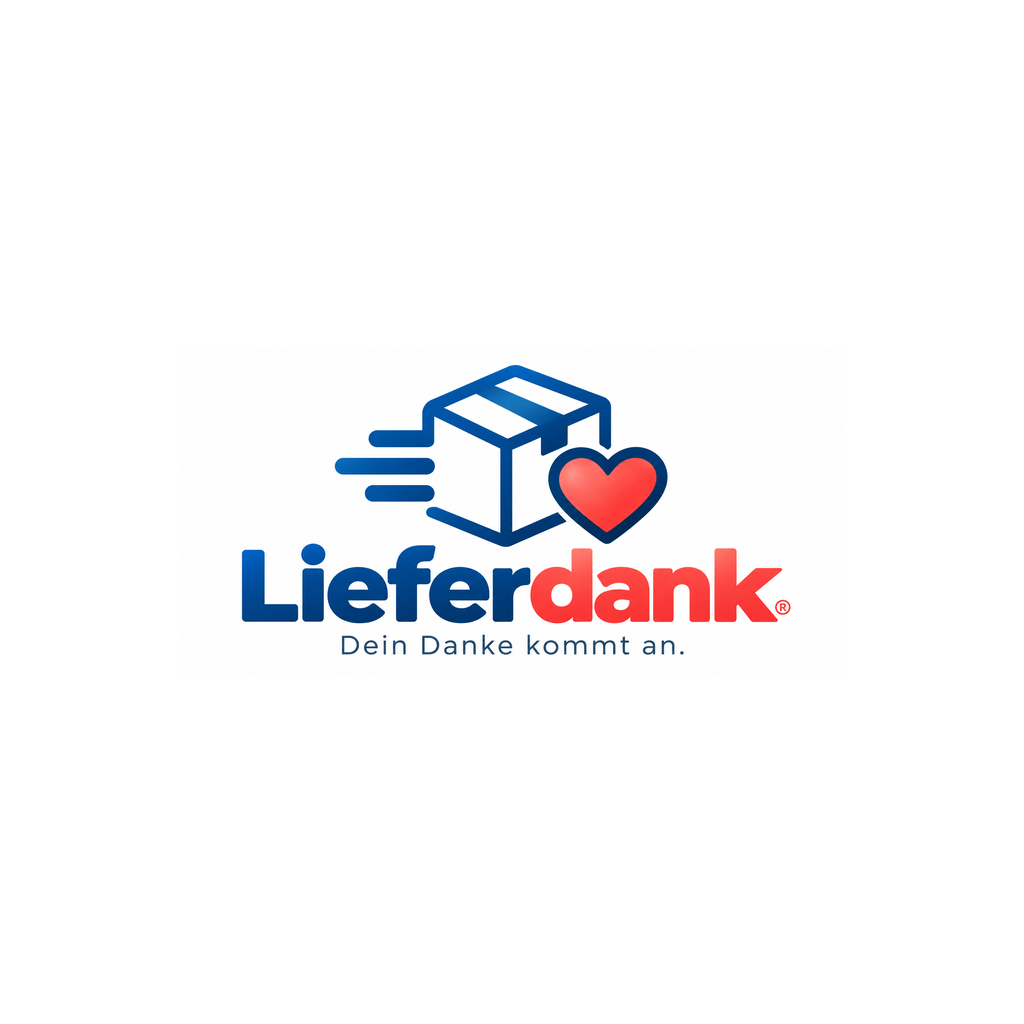
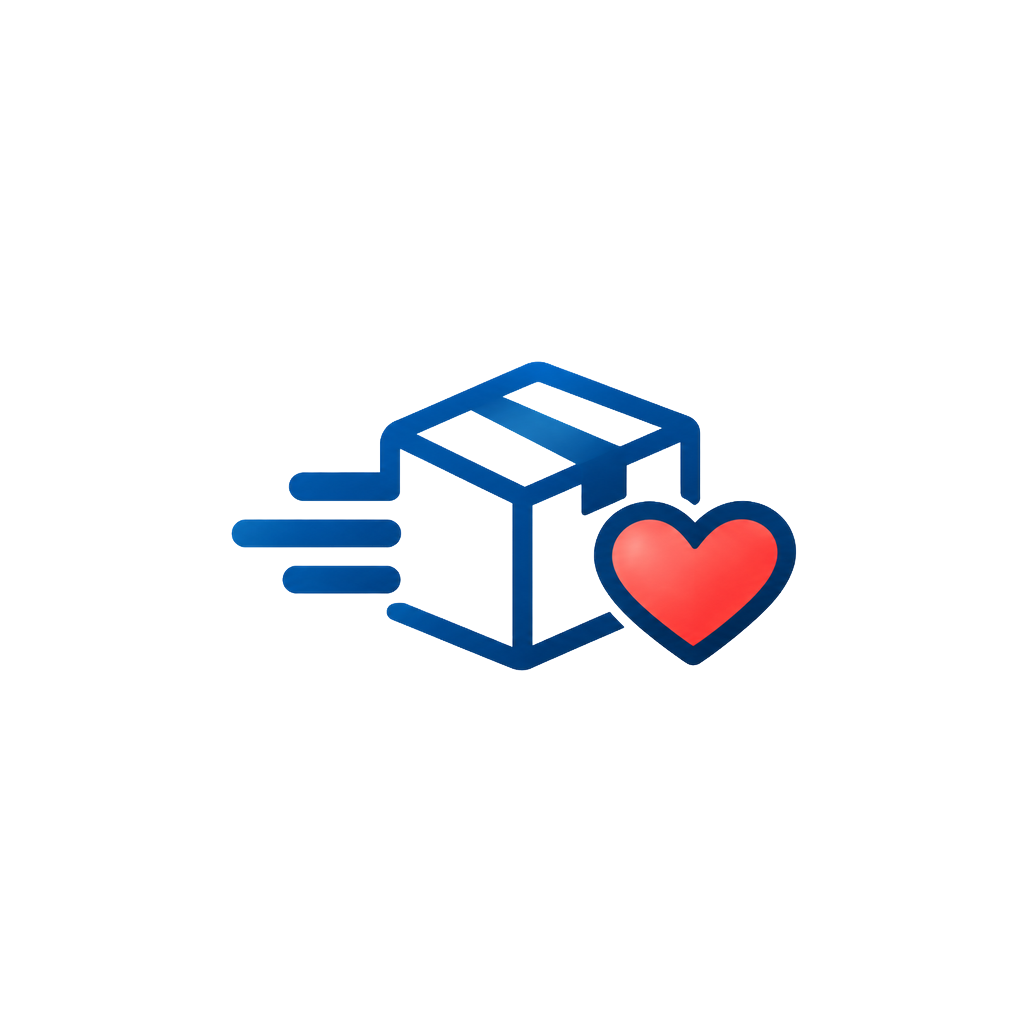
Notify confirmed payouts and stop tip e-mail setting from silencing push
- Queue a "payout sent" push only for payouts Stripe itself reports as
  paid, read live in the driver's connected account; pending or in-transit
  payouts never notify, and each payout notifies at most once per device.
- Rewards stay preview-only, so no reward push is sent; covered by a test.
- The per-device app switch is now the only push opt-out; the web setting
  "E-Mail bei jedem Trinkgeld" no longer blocks every app notification.
- App icon: flatten a faint off-white crop rectangle behind the approved
  mark; Android adaptive icon now uses the approved mark with the tape.

Changed region(s): [[0.2188, 0.3438, 0.7812, 0.6562]]

diff --git a/src/server/services/push.ts b/src/server/services/push.ts
@@ -8,7 +8,7 @@ import { deviceId } from "./mobile";
 import { parseInput } from "./auth";
 import { ServiceError } from "../errors";
 import { logEvent } from "../events";
-import { paymentProviderById } from "../payments";
+import { getPaymentProvider, paymentProviderById } from "../payments";
 import { RANKS } from "@/lib/ranks";
 import { getDriverRank } from "./ranks";
 
@@ -28,6 +28,7 @@ export async function registerPush(session: Session, input: unknown) {
   if (existing && existing.id !== id) await getDb().mobileSessions.update(existing.id, { pushToken: null, pushEnabled: false });
   await getDb().mobileSessions.update(id, { pushToken: value.enabled ? value.token : null, pushEnabled: value.enabled });
 }
+const euro = (cents: number) => `${(cents / 100).toLocaleString("de-DE", { minimumFractionDigits: 2, maximumFractionDigits: 2 })} €`;
 function deliveryId(sessionId: string, eventKey: string) {
   const hash = createHash("sha256").update(`${sessionId}:${eventKey}`).digest("hex");
   return `${hash.slice(0,8)}-${hash.slice(8,12)}-4${hash.slice(13,16)}-a${hash.slice(17,20)}-${hash.slice(20,32)}`;
@@ -45,7 +46,8 @@ export async function collectPushEvents() {
   for (const device of devices) {
     if (!device.pushToken || new Date(device.expiresAt).getTime() <= Date.now()) continue;
     const user = await db.users.get(device.userId); if (!user || user.blockedAt || user.tokenVersion !== device.tokenVersion) continue;
-    const driver = await db.driverProfiles.findOne({ userId: device.userId }); if (!driver?.notifyOnTip) continue;
+    // The per-device app switch (pushEnabled) is the push opt-out; notifyOnTip only controls tip e-mails.
+    const driver = await db.driverProfiles.findOne({ userId: device.userId }); if (!driver) continue;
     const tips = await db.tips.findMany({ where: { driverId: driver.id }, since: { field: "createdAt", value: device.createdAt } });
     for (const tip of tips) {
       if (tip.paymentStatus === "succeeded" && tip.refundedCents === 0 && !await db.pushDeliveries.get(deliveryId(device.id, `tip:${tip.id}`))) {
@@ -57,7 +59,7 @@ export async function collectPushEvents() {
               grossCents: tip.grossCents, applicationFeeCents: tip.platformGrossFeeCents,
             });
             if (credit !== null) await queuePush(device, { eventKey: `tip:${tip.id}`, title: "LieferDank",
-              body: `Du hast ${(credit / 100).toLocaleString("de-DE", { minimumFractionDigits: 2, maximumFractionDigits: 2 })} € Trinkgeld erhalten!`, screen: "earnings" });
+              body: `Du hast ${euro(credit)} Trinkgeld erhalten!`, screen: "earnings" });
           } catch {
             // Fail closed: a guessed net amount would be misleading. The next cron retries.
             await logEvent("warning", "push", "Bestätigte Stripe-Gutschrift für Push noch nicht verfügbar", { paymentId: payment.id });
@@ -80,6 +82,16 @@ export async function collectPushEvents() {
           await queuePush(device, { eventKey: `rank:${milestone.id}`, title: "Meilenstein erreicht", body: `Glückwunsch! Du hast ${rank.label} erreicht!`, screen: "thanks" });
       }
     }
+    // Rewards are preview-only (REWARD_PREVIEW): nothing can be activated or claimed, so there is deliberately no reward push.
+    // Payouts: Stripe's own "paid" status, read live in the driver's account scope; scheduled or in-transit payouts never notify.
+    if (driver.payoutAccountId) {
+      try {
+        for (const payout of await getPaymentProvider().paidPayouts(driver.payoutAccountId, device.createdAt))
+          await queuePush(device, { eventKey: `payout:${payout.id}`, title: "Auszahlung erfolgt", body: `${euro(payout.amountCents)} wurden an dein Bankkonto überwiesen.`, screen: "earnings" });
+      } catch {
+        await logEvent("warning", "push", "Auszahlungsstatus für Push nicht abrufbar", { driverId: driver.id });
+      }
+    }
   }
 }
 export async function deliverPush(fetcher: typeof fetch = fetch) {
@@ -92,7 +104,7 @@ export async function deliverPush(fetcher: typeof fetch = fetch) {
     const device = await db.mobileSessions.get(row.sessionId);
     const user = device ? await db.users.get(device.userId) : null;
     const owner = device ? await db.driverProfiles.findOne({ userId: device.userId }) : null;
-    if (!owner?.notifyOnTip || !device?.pushToken || !device.pushEnabled || device.revokedAt || !user || user.blockedAt || user.tokenVersion !== device.tokenVersion || device.expiresAt <= now.toISOString()) {
+    if (!owner || !device?.pushToken || !device.pushEnabled || device.revokedAt || !user || user.blockedAt || user.tokenVersion !== device.tokenVersion || device.expiresAt <= now.toISOString()) {
       await db.pushDeliveries.update(row.id, { status: "failed" }); continue;
     }
     if (row.eventKey.startsWith("tip:")) {

diff --git a/tests/mobile.test.ts b/tests/mobile.test.ts
@@ -14,6 +14,7 @@ import { POST as resetRoute } from "@/app/api/v1/auth/reset/route";
 import { GET as pushCron } from "@/app/api/cron/push/route";
 import { registerPush, queuePush, deliverPush, collectPushEvents, checkPushReceipts } from "@/server/services/push";
 import { startTip, confirmPayment } from "@/server/services/thanks";
+import { getPaymentProvider } from "@/server/payments";
 
 let ip = 0;
 const ctx = { params: Promise.resolve({}) };
@@ -84,6 +85,36 @@ describe("Confirmed push, deduplication and logout",()=>{
     await deliverPush(fetcher);
     expect(fetcher.mock.calls.map(([,init])=>JSON.parse(String(init?.body)).body)).not.toContain("Du hast 2,40 € Trinkgeld erhalten!");
     expect((await getDb().pushDeliveries.findMany({where:{eventKey:`tip:${tip.id}`}}))[0].status).toBe("failed");
+  });
+  it("notifies a payout only once, only after the provider reports it paid, with the paid amount",async()=>{
+    const d=await ready();await getDb().driverProfiles.update(d.driver.id,{payoutAccountId:"acct_driver"});
+    const paid=vi.spyOn(getPaymentProvider(),"paidPayouts").mockResolvedValue([]);
+    await collectPushEvents();
+    expect(await getDb().pushDeliveries.count()).toBe(0);
+    expect(paid).toHaveBeenCalledWith("acct_driver",d.row.createdAt);
+    paid.mockResolvedValue([{id:"po_1",amountCents:1234}]);
+    await collectPushEvents();await collectPushEvents();
+    const rows=await getDb().pushDeliveries.findMany({where:{eventKey:"payout:po_1"}});
+    expect(rows).toHaveLength(1);expect(rows[0].body).toBe("12,34 € wurden an dein Bankkonto überwiesen.");
+  });
+  it("sends no payout push without a payout account or when the provider cannot confirm",async()=>{
+    const d=await ready();const paid=vi.spyOn(getPaymentProvider(),"paidPayouts").mockRejectedValue(new Error("stripe down"));
+    await collectPushEvents();expect(paid).not.toHaveBeenCalled();
+    await getDb().driverProfiles.update(d.driver.id,{payoutAccountId:"acct_driver"});
+    await collectPushEvents();expect(paid).toHaveBeenCalled();expect(await getDb().pushDeliveries.count()).toBe(0);
+  });
+  it("the tip e-mail setting does not silence push; the device switch does",async()=>{
+    const d=await ready();await getDb().driverProfiles.update(d.driver.id,{notifyOnTip:false});await queuePush(d.row,event);
+    const fetcher=vi.fn<typeof fetch>(async()=>Response.json({data:{status:"ok",id:"ticket"}}));
+    expect(await deliverPush(fetcher)).toBe(1);
+    await queuePush(d.row,{...event,eventKey:"test:two"});await registerPush(d.session,{token:d.row.pushToken!,enabled:false});
+    expect(await deliverPush(fetcher)).toBe(0);expect(fetcher).toHaveBeenCalledTimes(1);
+  });
+  it("reward entitlements alone never create a push while rewards are preview-only",async()=>{
+    const d=await ready();
+    await getDb().rewardEntitlements.insert({id:crypto.randomUUID(),driverId:d.driver.id,threshold:500,unlockedAt:new Date().toISOString(),claimedAt:null});
+    await collectPushEvents();
+    expect(await getDb().pushDeliveries.count()).toBe(0);
   });
 });
 

diff --git a/tests/stripe.test.ts b/tests/stripe.test.ts
@@ -632,3 +632,25 @@ describe("Stripe Direct Charges", () => {
     );
   });
 });
+
+describe("Stripe-bestätigte Auszahlungen für Mitteilungen", () => {
+  it("liest nur von Stripe als paid gemeldete EUR-Auszahlungen im Konto des Zustellers", async () => {
+    vi.stubEnv("STRIPE_SECRET_KEY", "rk_test_dummy");
+    const list = vi.spyOn(stripeClient().payouts, "list").mockResolvedValue({ data: [
+      { id: "po_paid", status: "paid", currency: "eur", amount: 1234 },
+      { id: "po_transit", status: "in_transit", currency: "eur", amount: 500 },
+      { id: "po_usd", status: "paid", currency: "usd", amount: 700 },
+      { id: "po_zero", status: "paid", currency: "eur", amount: 0 },
+    ] } as unknown as Stripe.Response<Stripe.ApiList<Stripe.Payout>>);
+    expect(await stripePaymentProvider.paidPayouts("acct_driver", "2026-10-01T00:00:00.000Z")).toEqual([{ id: "po_paid", amountCents: 1234 }]);
+    const [params, options] = list.mock.calls[0] as unknown as [Stripe.PayoutListParams, Stripe.RequestOptions];
+    expect(params).toMatchObject({ status: "paid", created: { gte: 1790812800 } });
+    expect(options).toMatchObject({ stripeAccount: "acct_driver", maxNetworkRetries: 0 });
+  });
+  it("lehnt fremde Kontokennungen ab, bevor Stripe gefragt wird", async () => {
+    vi.stubEnv("STRIPE_SECRET_KEY", "rk_test_dummy");
+    const list = vi.spyOn(stripeClient().payouts, "list");
+    await expect(stripePaymentProvider.paidPayouts("acct_x/../y", "2026-10-01T00:00:00.000Z")).rejects.toThrow(/Auszahlungskontext/);
+    expect(list).not.toHaveBeenCalled();
+  });
+});

diff --git a/apps/driver/app.config.ts b/apps/driver/app.config.ts
@@ -4,7 +4,7 @@ const config: ExpoConfig = {
   userInterfaceStyle: "light", icon: "./assets/app-icon.png",
   ios: { bundleIdentifier: "de.lieferdank.driver", supportsTablet: false, associatedDomains: ["applinks:lieferdank.de"],
     config: { usesNonExemptEncryption: false }, infoPlist: { NSFaceIDUsageDescription: false, NSPhotoLibraryUsageDescription: "Wähle ein Foto für dein LieferDank-Profil." } },
-  android: { package: "de.lieferdank.driver", adaptiveIcon: { foregroundImage: "./assets/brand-mark.png", backgroundColor: "#ffffff" },
+  android: { package: "de.lieferdank.driver", adaptiveIcon: { foregroundImage: "./assets/adaptive-icon.png", backgroundColor: "#ffffff" },
     blockedPermissions: ["android.permission.SYSTEM_ALERT_WINDOW", "android.permission.RECORD_AUDIO", "android.permission.READ_CONTACTS", "android.permission.ACCESS_FINE_LOCATION"],
     intentFilters: [{ action: "VIEW", autoVerify: true, category: ["BROWSABLE", "DEFAULT"], data: [{ scheme: "https", host: "lieferdank.de", pathPrefix: "/app/" }, { scheme: "https", host: "lieferdank.de", path: "/passwort-neu" }, { scheme: "https", host: "lieferdank.de", path: "/email-bestaetigen" }] }] },
   plugins: [["expo-secure-store", { faceIDPermission: false }], "expo-notifications", "expo-web-browser", "expo-font", ["expo-image-picker", { photosPermission: "Wähle ein Foto für dein LieferDank-Profil.", cameraPermission: false, microphonePermission: false }], ["expo-splash-screen", { image: "./assets/brand-mark-approved.png", imageWidth: 220, backgroundColor: "#ffffff" }]],

diff --git a/src/server/payments/stripe.ts b/src/server/payments/stripe.ts
@@ -372,4 +372,16 @@ export const stripePaymentProvider: PaymentProvider = {
     const account = await stripeClient().accounts.retrieve(accountId, {}, { timeout: 4000, maxNetworkRetries: 0 });
     return account.settings?.payouts?.schedule?.interval === "manual" ? "manual" : "automatic";
   },
+
+  async paidPayouts(accountId, sinceIso) {
+    assertKeyMatchesEnvironment();
+    const since = Math.floor(new Date(sinceIso).getTime() / 1000);
+    if (!/^acct_[A-Za-z0-9]+$/.test(accountId) || !Number.isSafeInteger(since)) throw new Error("Ungültiger Auszahlungskontext.");
+    // Only Stripe's own "paid" status counts; pending and in_transit payouts are not completed yet.
+    const page = await stripeClient().payouts.list({ status: "paid", created: { gte: since }, limit: 20 },
+      { stripeAccount: accountId, timeout: 5000, maxNetworkRetries: 0 });
+    return page.data
+      .filter(payout => payout.status === "paid" && payout.currency === "eur" && Number.isSafeInteger(payout.amount) && payout.amount > 0)
+      .map(payout => ({ id: payout.id, amountCents: payout.amount }));
+  },
 };

diff --git a/apps/driver/src/App.tsx b/apps/driver/src/App.tsx
@@ -428,7 +428,7 @@ function LieferDankApp() {
       </>}
     </>}</Card>}
     {role === "driver" && <Card>
-      {pushAvailable && <View style={styles.switchRow}><View style={{ flex: 1 }}><Text style={styles.text}>Mitteilungen</Text><Text style={styles.muted}>Bei neuem Trinkgeld, Danke und Meilensteinen</Text></View><Switch accessibilityLabel="Mitteilungen aktivieren" value={pushEnabled} trackColor={{ true: colors.blue }} onValueChange={v => run(() => enablePush(v))} disabled={busy} /></View>}
+      {pushAvailable && <View style={styles.switchRow}><View style={{ flex: 1 }}><Text style={styles.text}>Mitteilungen</Text><Text style={styles.muted}>Bei neuem Trinkgeld, Danke, Meilensteinen und Auszahlungen</Text></View><Switch accessibilityLabel="Mitteilungen aktivieren" value={pushEnabled} trackColor={{ true: colors.blue }} onValueChange={v => run(() => enablePush(v))} disabled={busy} /></View>}
       <TextLink title="Auszahlung verwalten" align="flex-start" onPress={() => setScreen("stripe")} />
     </Card>}
     <Card><Text style={styles.title}>Passwort ändern</Text>

diff --git a/src/server/payments/types.ts b/src/server/payments/types.ts
@@ -87,5 +87,7 @@ export interface PaymentProvider {
   isAccountReady(accountId: string, driverId: string): Promise<boolean>;
   /** "manual": Stripe überweist das Guthaben nicht von selbst aufs Bankkonto. */
   payoutInterval(accountId: string): Promise<"manual" | "automatic">;
+  /** EUR payouts the provider itself reports as "paid" to the driver's bank, created at or after sinceIso. */
+  paidPayouts(accountId: string, sinceIso: string): Promise<{ id: string; amountCents: number }[]>;
 
 }

diff --git a/src/server/payments/demo.ts b/src/server/payments/demo.ts
@@ -95,4 +95,8 @@ export const demoPaymentProvider: PaymentProvider = {
   async payoutInterval() {
     return "automatic";
   },
+  // The demo never moves money to a bank, so it can never confirm a payout.
+  async paidPayouts() {
+    return [];
+  },
 };
